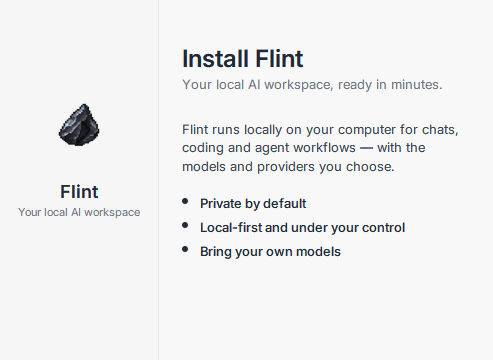
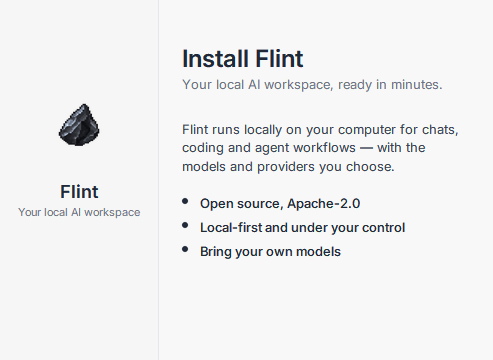
fix(installer): drop the 'Private by default' claim from the welcome page
The app is open source, so the line read as wrong next to a public repository.
It now says what is true and checkable: Open source, Apache-2.0.

Changed region(s): [[0.3955, 0.55, 0.7302, 0.5806]]

diff --git a/src-tauri/installer/generate.py b/src-tauri/installer/generate.py
@@ -394,7 +394,7 @@ MSI_PAGES = {
         title="Install Flint",
         sub="Your local AI workspace, ready in minutes.",
         body=["Flint runs locally on your computer for chats, coding and agent workflows — with the models and providers you choose."],
-        bullets=["Private by default", "Local-first and under your control", "Bring your own models"],
+        bullets=["Open source, Apache-2.0", "Local-first and under your control", "Bring your own models"],
     ),
     "installdir": dict(
         title="Choose where to install",
